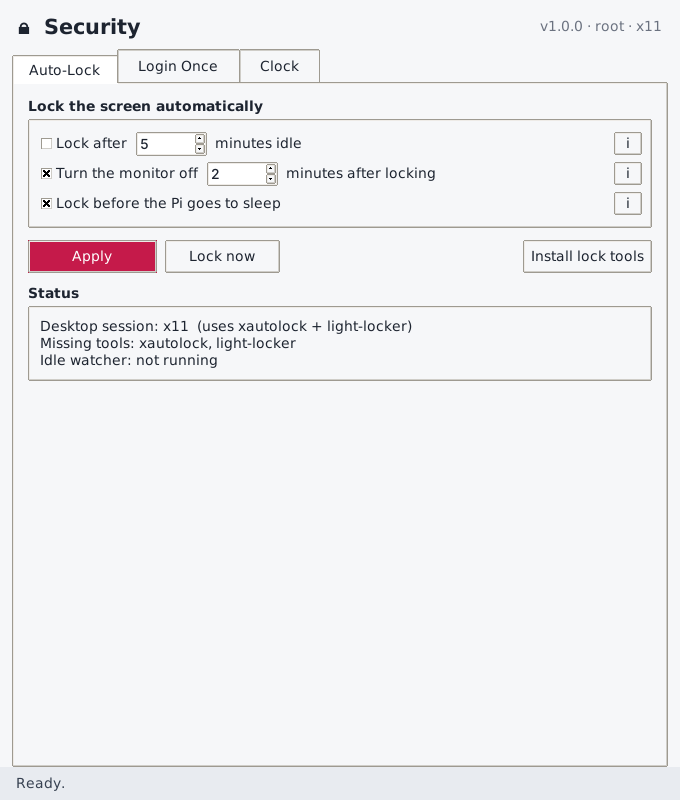
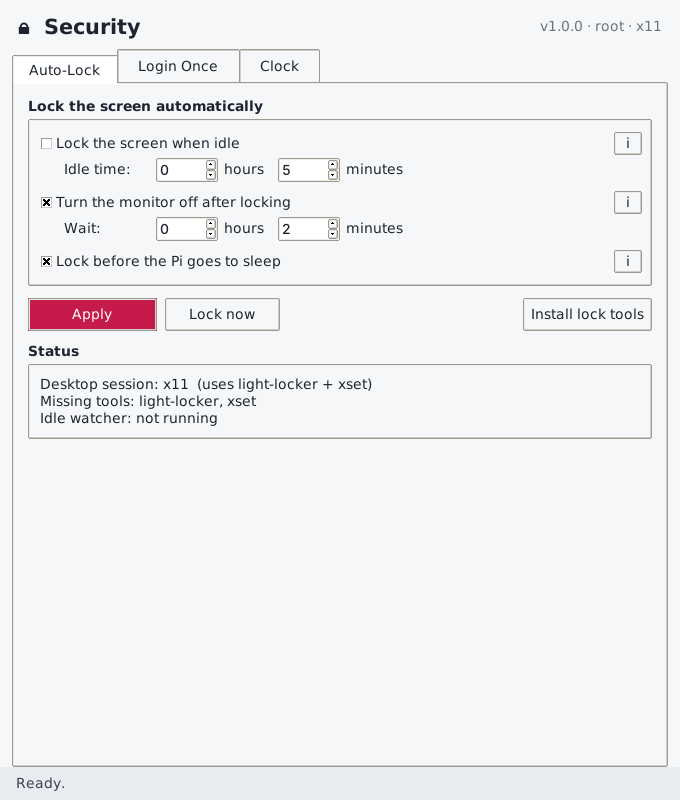
v1.1.0: idle and monitor-off times in hours + minutes

diff --git a/security.py b/security.py
@@ -3,8 +3,8 @@
 Security - auto-lock, log-in-once and clock settings for Raspberry Pi 5.
 
 Tabs:
-  Auto-Lock  - lock the desktop after N idle minutes (swayidle + swaylock on
-               the labwc/wayfire Wayland desktop, xautolock + light-locker on X11)
+  Auto-Lock  - lock the desktop after an idle time in hours + minutes (swayidle +
+               swaylock on labwc/wayfire Wayland, light-locker on X11)
   Login Once - save your username/password in the login keyring (unlocked when
                you log in) and pick which admin commands skip the sudo prompt
   Clock      - timezone, network time, manual date/time, the Pi 5 RTC and
@@ -23,7 +23,7 @@ import tkinter as tk
 from tkinter import messagebox, ttk
 
 APP_NAME = "Security"
-VERSION = "1.0.0"
+VERSION = "1.1.0"
 USER = getpass.getuser()
 HOME = os.path.expanduser("~")
 CONF_DIR = os.path.join(HOME, ".config", "pi-security")
@@ -58,7 +58,7 @@ SUDO_PRESETS = [
 
 INFO = {
     "autolock": "Locks the screen after you stop using the mouse and keyboard for "
-                "the number of minutes you choose. Unlock with your normal login password.",
+                "the hours and minutes you choose. Unlock with your normal login password.",
     "screenoff": "Turns the monitor off a while after the lock kicks in, to save "
                  "power and screen life. Moving the mouse turns it back on.",
     "sleep": "Also locks the screen right before the Pi suspends, so nobody "
@@ -309,22 +309,23 @@ class App(tk.Tk):
         box.pack(fill="x")
 
         self.v_auto = tk.BooleanVar(value=self.s["autolock"])
-        self.v_lmin = tk.IntVar(value=self.s["lock_min"])
+        lm, om = int(self.s["lock_min"]), int(self.s["off_min"])
+        self.v_lhr = tk.IntVar(value=lm // 60)
+        self.v_lmin = tk.IntVar(value=lm % 60)
         self.v_off = tk.BooleanVar(value=self.s["screenoff"])
-        self.v_omin = tk.IntVar(value=self.s["off_min"])
+        self.v_ohr = tk.IntVar(value=om // 60)
+        self.v_omin = tk.IntVar(value=om % 60)
         self.v_sleep = tk.BooleanVar(value=self.s["lock_sleep"])
 
         r = ttk.Frame(box); r.pack(fill="x", pady=3)
-        ttk.Checkbutton(r, text="Lock after", variable=self.v_auto).pack(side="left")
-        ttk.Spinbox(r, from_=1, to=240, width=5, textvariable=self.v_lmin).pack(side="left", padx=6)
-        ttk.Label(r, text="minutes idle").pack(side="left")
+        ttk.Checkbutton(r, text="Lock the screen when idle", variable=self.v_auto).pack(side="left")
         self.info_btn(r, "autolock").pack(side="right")
+        self._hm_row(box, "Idle time:", self.v_lhr, self.v_lmin, 24)
 
         r = ttk.Frame(box); r.pack(fill="x", pady=3)
-        ttk.Checkbutton(r, text="Turn the monitor off", variable=self.v_off).pack(side="left")
-        ttk.Spinbox(r, from_=1, to=120, width=5, textvariable=self.v_omin).pack(side="left", padx=6)
-        ttk.Label(r, text="minutes after locking").pack(side="left")
+        ttk.Checkbutton(r, text="Turn the monitor off after locking", variable=self.v_off).pack(side="left")
         self.info_btn(r, "screenoff").pack(side="right")
+        self._hm_row(box, "Wait:", self.v_ohr, self.v_omin, 24)
 
         r = ttk.Frame(box); r.pack(fill="x", pady=3)
         ttk.Checkbutton(r, text="Lock before the Pi goes to sleep", variable=self.v_sleep).pack(side="left")
@@ -341,11 +342,29 @@ class App(tk.Tk):
         self.lock_status.pack(anchor="w")
         self.refresh_lock_status()
 
+    @staticmethod
+    def _hm_row(parent, label, v_h, v_m, max_h):
+        r = ttk.Frame(parent); r.pack(fill="x", pady=(0, 6), padx=(24, 0))
+        ttk.Label(r, text=label, width=10).pack(side="left")
+        ttk.Spinbox(r, from_=0, to=max_h, width=4, textvariable=v_h).pack(side="left")
+        ttk.Label(r, text="hours").pack(side="left", padx=(4, 12))
+        ttk.Spinbox(r, from_=0, to=59, width=4, textvariable=v_m).pack(side="left")
+        ttk.Label(r, text="minutes").pack(side="left", padx=4)
+
+    def _total_min(self, v_h, v_m):
+        """Hours + minutes from the boxes, as whole minutes (at least 1)."""
+        return max(1, int(v_h.get()) * 60 + int(v_m.get()))
+
+    @staticmethod
+    def _fmt(mins):
+        h, m = divmod(mins, 60)
+        return " ".join(x for x in (f"{h} h" if h else "", f"{m} min" if m else "") if x)
+
     def refresh_lock_status(self):
         if session_type() == "wayland":
             need = ["swayidle", "swaylock"]
         else:
-            need = ["xautolock", "light-locker"]
+            need = ["light-locker", "xset"]
         missing = [p for p in need if not have(p)]
         running = run(["pgrep", "-u", USER, "-x", need[0]])[0] == 0
         lines = [f"Desktop session: {session_type()}  (uses {need[0]} + {need[1]})"]
@@ -354,7 +373,7 @@ class App(tk.Tk):
         self.lock_status.config(text="\n".join(lines))
 
     def install_tools(self):
-        pk = ["swayidle", "swaylock", "wlopm", "xautolock", "light-locker",
+        pk = ["swayidle", "swaylock", "wlopm", "light-locker", "x11-xserver-utils",
               "libsecret-tools", "gnome-keyring", "libpam-gnome-keyring"]
         if not messagebox.askyesno(APP_NAME, "Install:\n  " + " ".join(pk) + "\n\nwith apt?"):
             return
@@ -366,12 +385,13 @@ class App(tk.Tk):
         self.refresh_lock_status()
 
     def write_idle_script(self):
-        lock_s = max(1, int(self.v_lmin.get())) * 60
-        off_s = lock_s + max(1, int(self.v_omin.get())) * 60
+        lock_s = self._total_min(self.v_lhr, self.v_lmin) * 60
+        off_s = lock_s + self._total_min(self.v_ohr, self.v_omin) * 60
         sh = f"""#!/bin/sh
 # Generated by the Security app - re-written every time you press Apply.
 pkill -u "$USER" -x swayidle 2>/dev/null
 pkill -u "$USER" -x xautolock 2>/dev/null
+pkill -u "$USER" -x light-locker 2>/dev/null
 [ -f "$HOME/.config/pi-security/disabled" ] && exit 0
 if [ -n "$WAYLAND_DISPLAY" ]; then
   exec swayidle -w \\
@@ -383,10 +403,10 @@ if [ -n "$WAYLAND_DISPLAY" ]; then
             sh += "    before-sleep 'swaylock -f -c 1d2430' \\\n"
         sh += f"""    >/dev/null 2>&1
 else
-  xset s off
-  {"xset dpms " + str(off_s) + " " + str(off_s) + " " + str(off_s) if self.v_off.get() else "xset -dpms"}
-  light-locker {"--lock-on-suspend" if self.v_sleep.get() else ""} >/dev/null 2>&1 &
-  exec xautolock -time {max(1, int(self.v_lmin.get()))} -locker 'light-locker-command -l' >/dev/null 2>&1
+  # X screensaver timer drives light-locker (works for any number of hours)
+  xset s {lock_s} 0
+  {"xset +dpms dpms " + str(off_s) + " " + str(off_s) + " " + str(off_s) if self.v_off.get() else "xset -dpms"}
+  exec light-locker --lock-after-screensaver=0 {"--lock-on-suspend" if self.v_sleep.get() else "--no-lock-on-suspend"} >/dev/null 2>&1
 fi
 """
         os.makedirs(os.path.dirname(IDLE_SCRIPT), exist_ok=True)
@@ -434,11 +454,13 @@ fi
 
     def apply_lock(self):
         try:
-            self.s.update(autolock=self.v_auto.get(), lock_min=int(self.v_lmin.get()),
-                          screenoff=self.v_off.get(), off_min=int(self.v_omin.get()),
+            self.s.update(autolock=self.v_auto.get(),
+                          lock_min=self._total_min(self.v_lhr, self.v_lmin),
+                          screenoff=self.v_off.get(),
+                          off_min=self._total_min(self.v_ohr, self.v_omin),
                           lock_sleep=self.v_sleep.get())
         except (tk.TclError, ValueError):
-            messagebox.showerror(APP_NAME, "Minutes must be whole numbers.")
+            messagebox.showerror(APP_NAME, "Hours and minutes must be whole numbers.")
             return
         save_settings(self.s)
         flag = os.path.join(CONF_DIR, "disabled")
@@ -449,12 +471,15 @@ fi
             self.hook_autostart(True)
             subprocess.Popen([IDLE_SCRIPT], start_new_session=True,
                              stdout=subprocess.DEVNULL, stderr=subprocess.DEVNULL)
-            self.say(f"Auto-lock on: locks after {self.s['lock_min']} min idle. Starts at every login.")
+            self.say(f"Auto-lock on: locks after {self._fmt(self.s['lock_min'])} idle. Starts at every login.")
         else:
             open(flag, "w").close()
             self.hook_autostart(False)
             run(["pkill", "-u", USER, "-x", "swayidle"])
             run(["pkill", "-u", USER, "-x", "xautolock"])
+            run(["pkill", "-u", USER, "-x", "light-locker"])
+            if session_type() == "x11":
+                run(["xset", "s", "off"])
             self.say("Auto-lock off.")
         self.after(800, self.refresh_lock_status)
 

diff --git a/README.md b/README.md
@@ -7,10 +7,10 @@ A small desktop app for Raspberry Pi OS (Bookworm / Trixie) with three tabs:
 | ![](screenshot-autolock.png) | ![](screenshot-login.png) | ![](screenshot-clock.png) |
 
 ## Auto-Lock
-- Lock the screen after **N minutes idle**, turn the monitor off N minutes after it locks, and lock before the Pi sleeps.
+- Lock the screen after an idle time you set in **hours and minutes**, turn the monitor off a set time (hours + minutes) after it locks, and lock before the Pi sleeps.
 - **Lock now** button (same as Ctrl+Alt+L).
 - Wayland desktop (labwc / wayfire): uses `swayidle` + `swaylock` (+ `wlopm` for monitor off).
-  X11 desktop: uses `xautolock` + `light-locker`.
+  X11 desktop: uses `light-locker` with the X screensaver timer.
 - Starts at every login. Adds a marked block to `~/.config/labwc/autostart` (the rest of the file is left alone).
 
 ## Login Once
